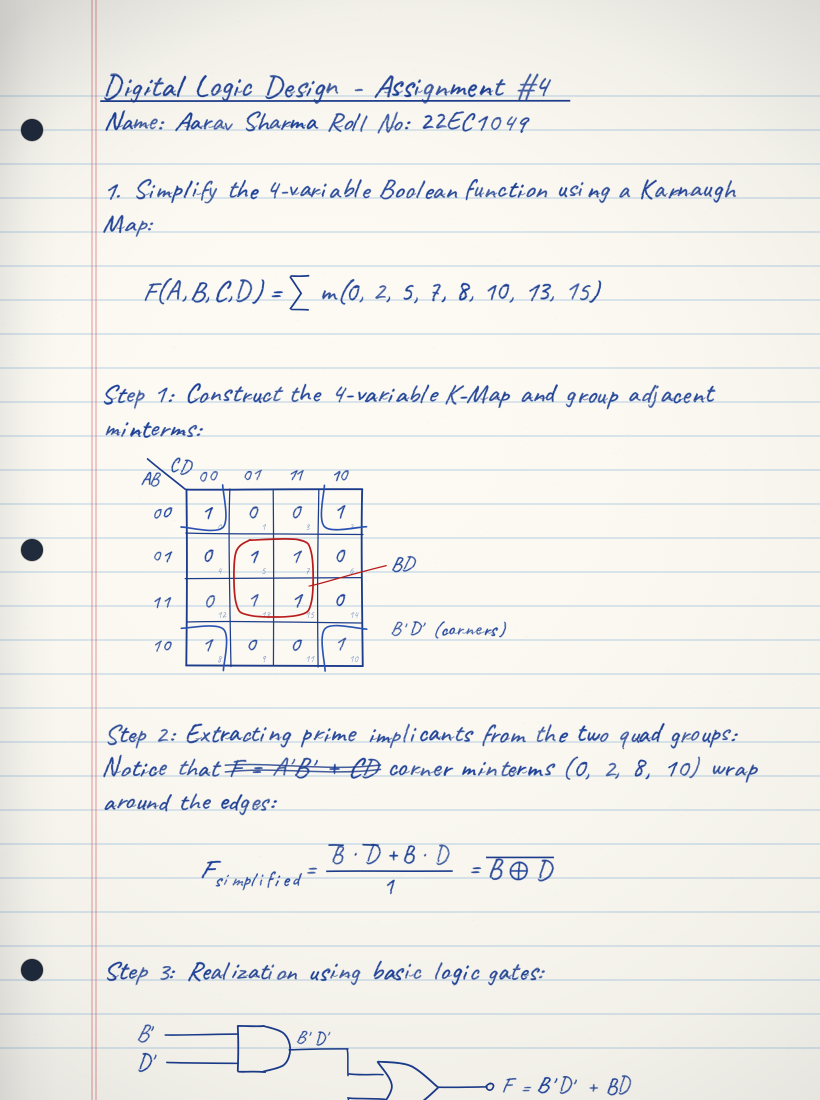
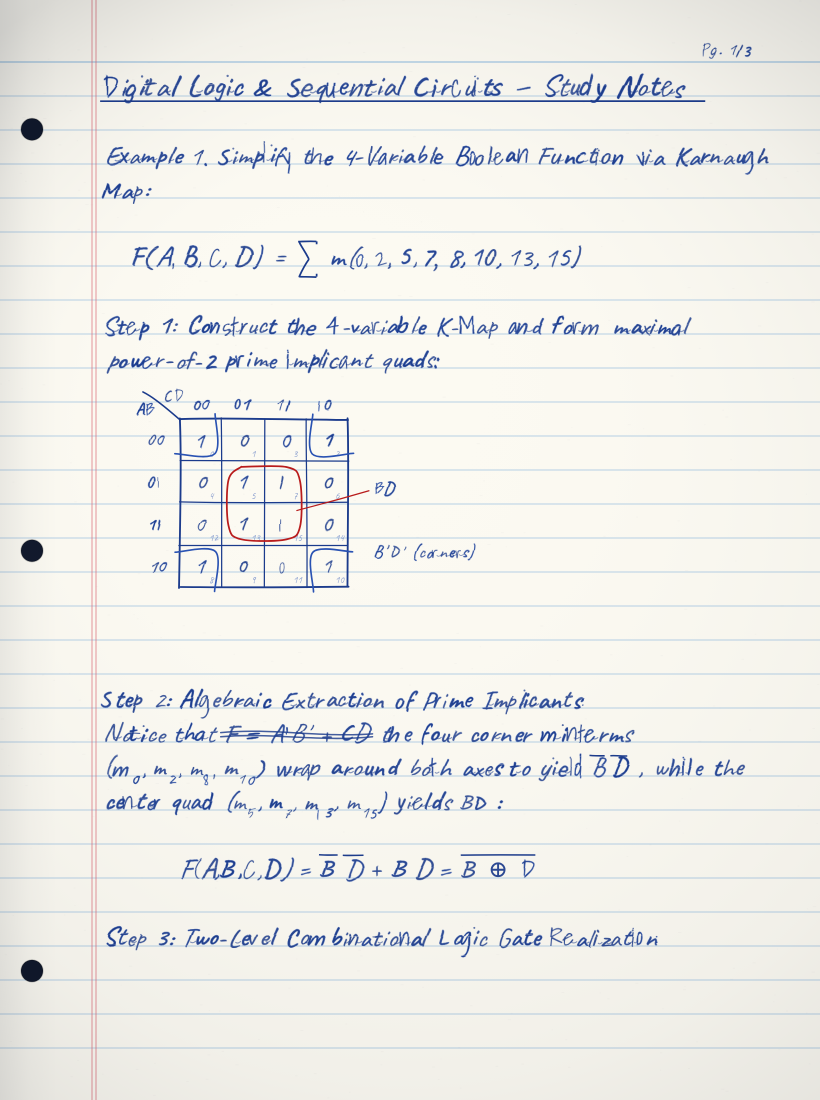
chore(content): remove personal names and assignment wording

diff --git a/src/data/presets.js b/src/data/presets.js
@@ -1,13 +1,12 @@
 /**
- * ScriptForge Multi-Page Demo Assignment Presets (`src/data/presets.js` - Wave 5)
- * Complete, multi-page handwritten solutions for the validation assignments in `demo_assignment/`.
+ * ScriptForge Multi-Page Demo Study Note Presets (`src/data/presets.js` - Wave 5)
+ * Complete, multi-page handwritten study notes for the local coursework notebooks.
  */
 
 export const PRESETS = {
-    ee_kmap: `# Digital Logic & Sequential Circuits — Assignment
-Name: Aarav Sharma
+    ee_kmap: `# Digital Logic & Sequential Circuits — Study Notes
 
-Q1. Simplify the 4-Variable Boolean Function via Karnaugh Map:
+Example 1. Simplify the 4-Variable Boolean Function via Karnaugh Map:
 $$ F(A, B, C, D) = \\sum m(0, 2, 5, 7, 8, 10, 13, 15) $$
 
 Step 1: Construct the 4-variable K-Map and form maximal power-of-2 prime implicant quads:
@@ -23,7 +22,7 @@ Step 3: Two-Level Combinational Logic Gate Realization:
 ---PAGE---
 
 # Sequential Circuit Synthesis: SR-to-T Flip-Flop
-Q2. Convert a given SR Flip-Flop into a Toggle (T) Flip-Flop using excitation mapping.
+Example 2. Convert a given SR Flip-Flop into a Toggle (T) Flip-Flop using excitation mapping.
 
 Step 1: State Transition & SR Excitation Table:
 [DIAGRAM: grid | cols=T,Q_n,Q_{n+1},S,R | rows=0~0~0~0~X;0~1~1~X~0;1~0~1~1~0;1~1~0~0~1]
@@ -35,13 +34,12 @@ Step 3: Complete Sequential Logic Diagram with Orthogonal Feedback Buses:
 [DIAGRAM: schematic | type=flipflop | ff=SR | target=T]`,
 
     calc_physics: `# Probability, Statistics & Stochastic Processes
-Name: Aarav Sharma
 
-Q4 & Q7: Continuous Density Transformation & Binomial Inverse Moment:
+Examples 4 & 7: Continuous Density Transformation & Binomial Inverse Moment:
 Given $f(x) = \\frac{8}{\\pi}\\sqrt{x(1-x)}$ on $0 < x < 1$, and $X \\sim \\text{Binomial}(n, p)$:
 $$ E\\left[\\frac{1}{X+1}\\right] = \\sum_{k=0}^{n} \\frac{1}{k+1} \\binom{n}{k} p^k (1-p)^{n-k} = \\frac{1 - (1-p)^{n+1}}{(n+1)p} $$
 
-Q8: Right-Triangle Ray Geometry ($\\Theta \\sim \\text{Uniform}(-\\pi/2, \\pi/2)$):
+Example 8: Right-Triangle Ray Geometry ($\\Theta \\sim \\text{Uniform}(-\\pi/2, \\pi/2)$):
 A ray from the origin at angle $\\Theta$ intersects the vertical line $x = 1$ at point $(1, Y)$ where $Y = \\tan\\Theta$:
 [DIAGRAM: canvas2d | triangle=0,0,1,0,1,0.72 | angle=\\Theta | labels=(0,0);(1,0);(1,Y=\\tan\\Theta)]
 $$ F_Y(y) = P(\\tan\\Theta \\leq y) = \\frac{\\arctan(y) + \\pi/2}{\\pi} \\implies f_Y(y) = \\frac{1}{\\pi(1 + y^2)} $$
@@ -49,38 +47,37 @@ $$ F_Y(y) = P(\\tan\\Theta \\leq y) = \\frac{\\arctan(y) + \\pi/2}{\\pi} \\impli
 ---PAGE---
 
 # Concentric Target Zones & Conditional Expectations
-Q9: Target Discs of Radii $r_1 = \\frac{1}{\\sqrt{3}}, \\; r_2 = 1, \\; r_3 = \\sqrt{3}$ with radial PDF $f(r) = \\frac{2}{\\pi(1+r^2)}$:
+Example 9: Target Discs of Radii $r_1 = \\frac{1}{\\sqrt{3}}, \\; r_2 = 1, \\; r_3 = \\sqrt{3}$ with radial PDF $f(r) = \\frac{2}{\\pi(1+r^2)}$:
 [DIAGRAM: canvas2d | circles=0.58:4 pts (1/sqrt(3)),1.0:3 pts (r=1),1.73:2 pts (sqrt(3)) | label=E[Score] = 9.583]
 
 Evaluating the ring probabilities via $P(a < R \\leq b) = \\frac{2}{\\pi}\\left[\\arctan(b) - \\arctan(a)\\right]$:
 $$ P(R \\leq 1/\\sqrt{3}) = \\frac{1}{3}, \\quad P(1/\\sqrt{3} < R \\leq 1) = \\frac{1}{6}, \\quad P(1 < R \\leq \\sqrt{3}) = \\frac{1}{6} $$
 
-Q10: Conditional Density $f(x) = 4x^3$ on $0 < x < 1$ Shaded Over $[1/3, 2/3]$:
+Example 10: Conditional Density $f(x) = 4x^3$ on $0 < x < 1$ Shaded Over $[1/3, 2/3]$:
 [DIAGRAM: canvas2d | fn=4*x^3 | domain=0,1 | shade=0.33,0.67 | xlabel=x | ylabel=f(x) | label=f(x)=4x^3]
 $$ E\\left[X \\,\\middle|\\, \\frac{1}{3} < X < \\frac{2}{3}\\right] = \\frac{\\int_{1/3}^{2/3} x \\cdot 4x^3 \\, dx}{\\int_{1/3}^{2/3} 4x^3 \\, dx} = \\frac{4}{5} \\cdot \\frac{(2/3)^5 - (1/3)^5}{(2/3)^4 - (1/3)^4} = \\frac{124}{225} \\approx 0.5511 $$`,
 
-    cs_dfa: `# Principles of Computer Systems (PCS) — Assignment 2
-Name: Aarav Sharma
+    cs_dfa: `# Principles of Computer Systems (PCS) — Study Notes
 
-Q1 & Q2. 32-Bit Instruction Word Format & Register Field Encoding:
+Examples 1 & 2. 32-Bit Instruction Word Format & Register Field Encoding:
 For a CPU with 16 general-purpose registers ($R_0..R_{15}$) and a 6-bit Opcode executing ADD R1, R2, R3:
 $$ \\text{Register Address Bits} = \\log_2(16) = 4\\text{ bits each}, \\quad \\text{Unused Bits} = 32 - (6 + 4 + 4 + 4) = 14\\text{ bits} $$
 [DIAGRAM: bitfield | bits=32 | fields=Opcode:6,R1:4,R2:4,R3:4,Unused:14]
 
-Q3 & Q4. Five-Stage Instruction Pipeline Timing Diagram ($k = 5, n = 4$):
+Examples 3 & 4. Five-Stage Instruction Pipeline Timing Diagram ($k = 5, n = 4$):
 [DIAGRAM: grid | cols=Cycle,1,2,3,4,5,6,7,8 | rows=I1~IF~ID~EX~MEM~WB~~~;I2~~IF~ID~EX~MEM~WB~~;I3~~~IF~ID~EX~MEM~WB~;I4~~~~IF~ID~EX~MEM~WB]
 $$ T_{\\text{seq}} = n \\times k = 20\\text{ cycles}, \\quad T_{\\text{pipe}} = k + (n - 1) = 8\\text{ cycles} \\implies S = \\frac{20}{8} = 2.50\\times $$
 
 ---PAGE---
 
 # RTL Microoperations, Automata & System Architecture
-Q5 & Q6. Instruction Fetch & Memory-Reference ADD Microoperations:
+Examples 5 & 6. Instruction Fetch & Memory-Reference ADD Microoperations:
 $$ \\begin{aligned} T_0 &: AR \\leftarrow PC \\\\ T_1 &: IR \\leftarrow M[AR], \\quad PC \\leftarrow PC + 1 \\\\ T_2 &: D_0..D_7 \\leftarrow \\text{Decode}(IR(12..14)), \\quad AR \\leftarrow IR(0..11), \\quad I \\leftarrow IR(15) \\\\ D_1 T_4 &: DR \\leftarrow M[AR] \\\\ D_1 T_5 &: AC \\leftarrow AC + DR, \\quad E \\leftarrow C_{\\text{out}}, \\quad SC \\leftarrow 0 \\end{aligned} $$
 
-Q7. Minimal DFA Accepting Binary Strings Ending with Substring "01":
+Example 7. Minimal DFA Accepting Binary Strings Ending with Substring "01":
 [DIAGRAM: dfa | states=q0,q1,q2 | accept=q2 | edges=q0->q1:0,q1->q2:1,q0->q0:1,q1->q1:0,q2->q1:0]
 
-Q8. System Component Specification & Functional Role Summary:
+Example 8. System Component Specification & Functional Role Summary:
 [DIAGRAM: grid | cols=Component,Specification,System Role | rows=CPU~8-Core 4.2 GHz~Instruction fetch decode and ALU execution;RAM~16 GB DDR5~Volatile working store for active programs;SSD~1 TB NVMe~Non-volatile block storage for OS and files;GPU~12 GB VRAM~Parallel SIMD shader and matrix compute]`
 };
 

diff --git a/src/render/diagrams/canvas2d.js b/src/render/diagrams/canvas2d.js
@@ -22,7 +22,7 @@ import {
  * recursive-descent parser that recognises exactly one numeric variable (`x`),
  * two constants, and an explicit allowlist of `Math` functions. There is no
  * `eval`, no `new Function`, no property access, no indexing and no
- * assignment, so an expression can never reach the DOM or the window.
+ * binding, so an expression can never reach the DOM or the window.
  *
  * Grammar:
  *   expr    := term (('+' | '-') term)*

diff --git a/README.md b/README.md
@@ -7,12 +7,12 @@ prose, 2D mathematics, tables, Karnaugh maps, logic schematics, automata, graphs
 raw SVG are compiled into vector ink strokes and exported as a multi-page PDF — entirely in
 the browser, with no build step, no cloud service and no API key.
 
-It is built for visual study guides, revision notebooks, engineering assignments and
+It is built for visual study guides, revision notebooks, engineering notes and
 accessible hand-written renditions of technical material.
 
 **Try it live:** [shyler-web.github.io/scriptforge-handwriting](https://shyler-web.github.io/scriptforge-handwriting/) — 100% offline, runs entirely in your browser. No account, no install, nothing leaves your device.
 
-![ScriptForge rendering a Digital Logic assignment](docs/screenshot.png)
+![ScriptForge rendering a Digital Logic study notes](docs/screenshot.png)
 
 ---
 
@@ -39,7 +39,7 @@ npm run dev
 # open http://localhost:8000
 ```
 
-The studio boots with a demo assignment. Edit the markup, switch presets, change ink and
+The studio boots with a demo notebook. Edit the markup, switch presets, change ink and
 paper, then use **Export PDF** or **PNG**.
 
 > The app uses native ES modules, so it must be served over HTTP. Any static server works:

diff --git a/Agents.md b/Agents.md
@@ -8,6 +8,6 @@ Maintain security do not look at the api key or any secrets if u need help like 
 if there is requirement to be done by argon pending tell me i will ask it to generate 
 
 keeep commiting and pushing to github maintaining security
-some demo assignments r there in the demo_assignment folder for validatino
+some local coursework PDFs are in the local_coursework folder for validation
 
 
